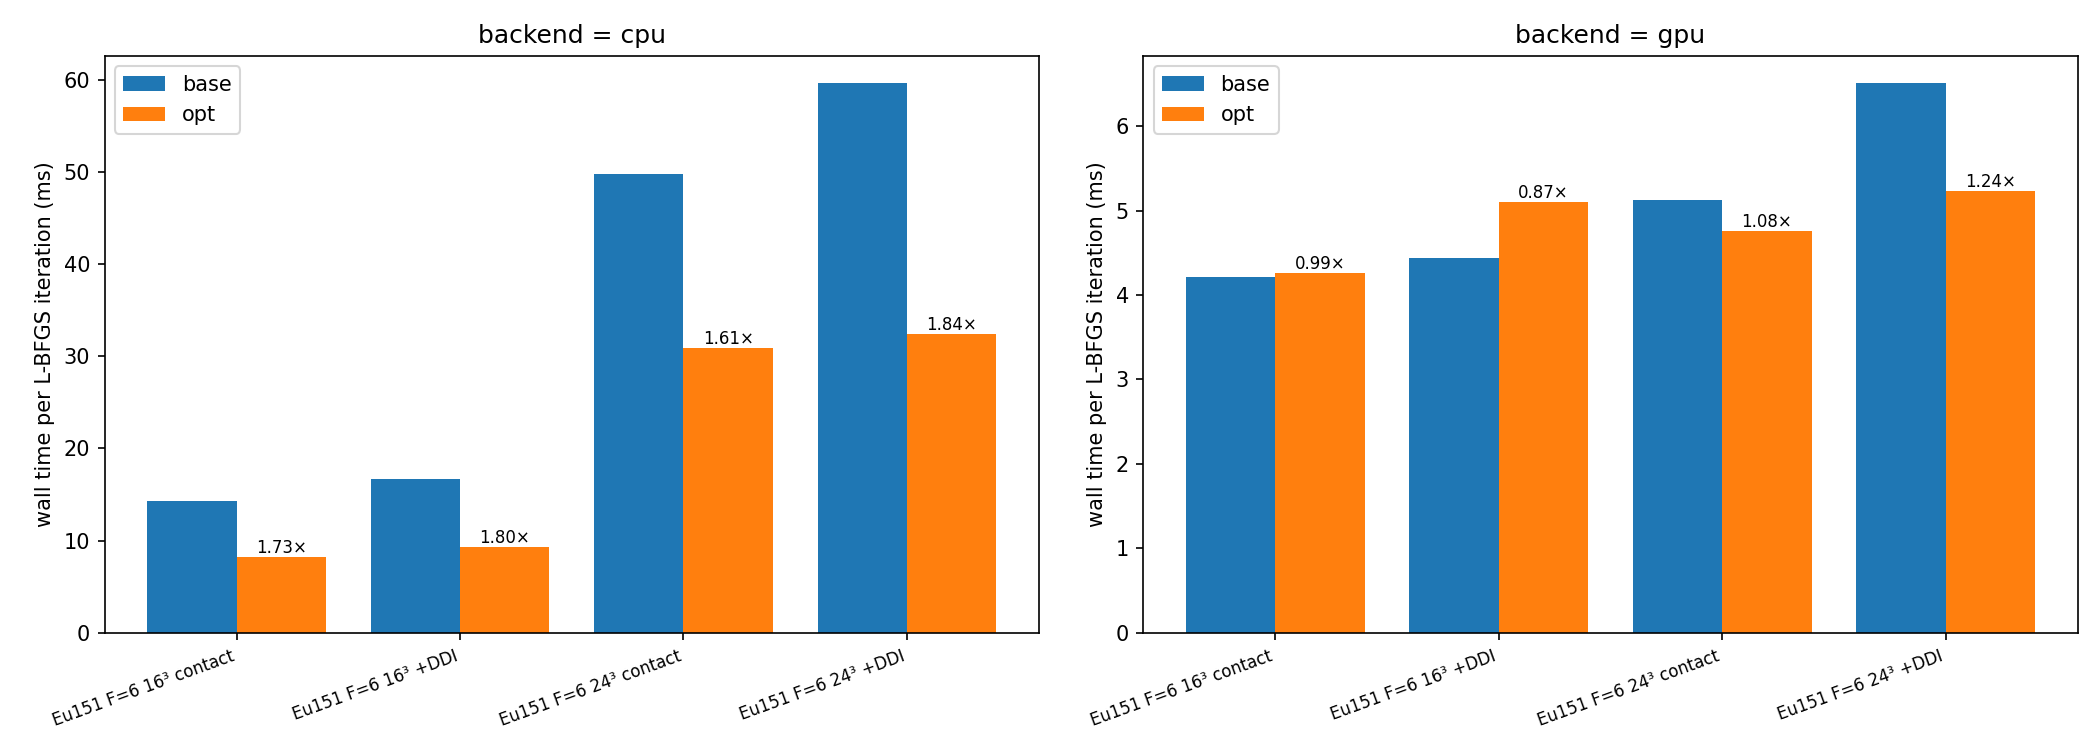
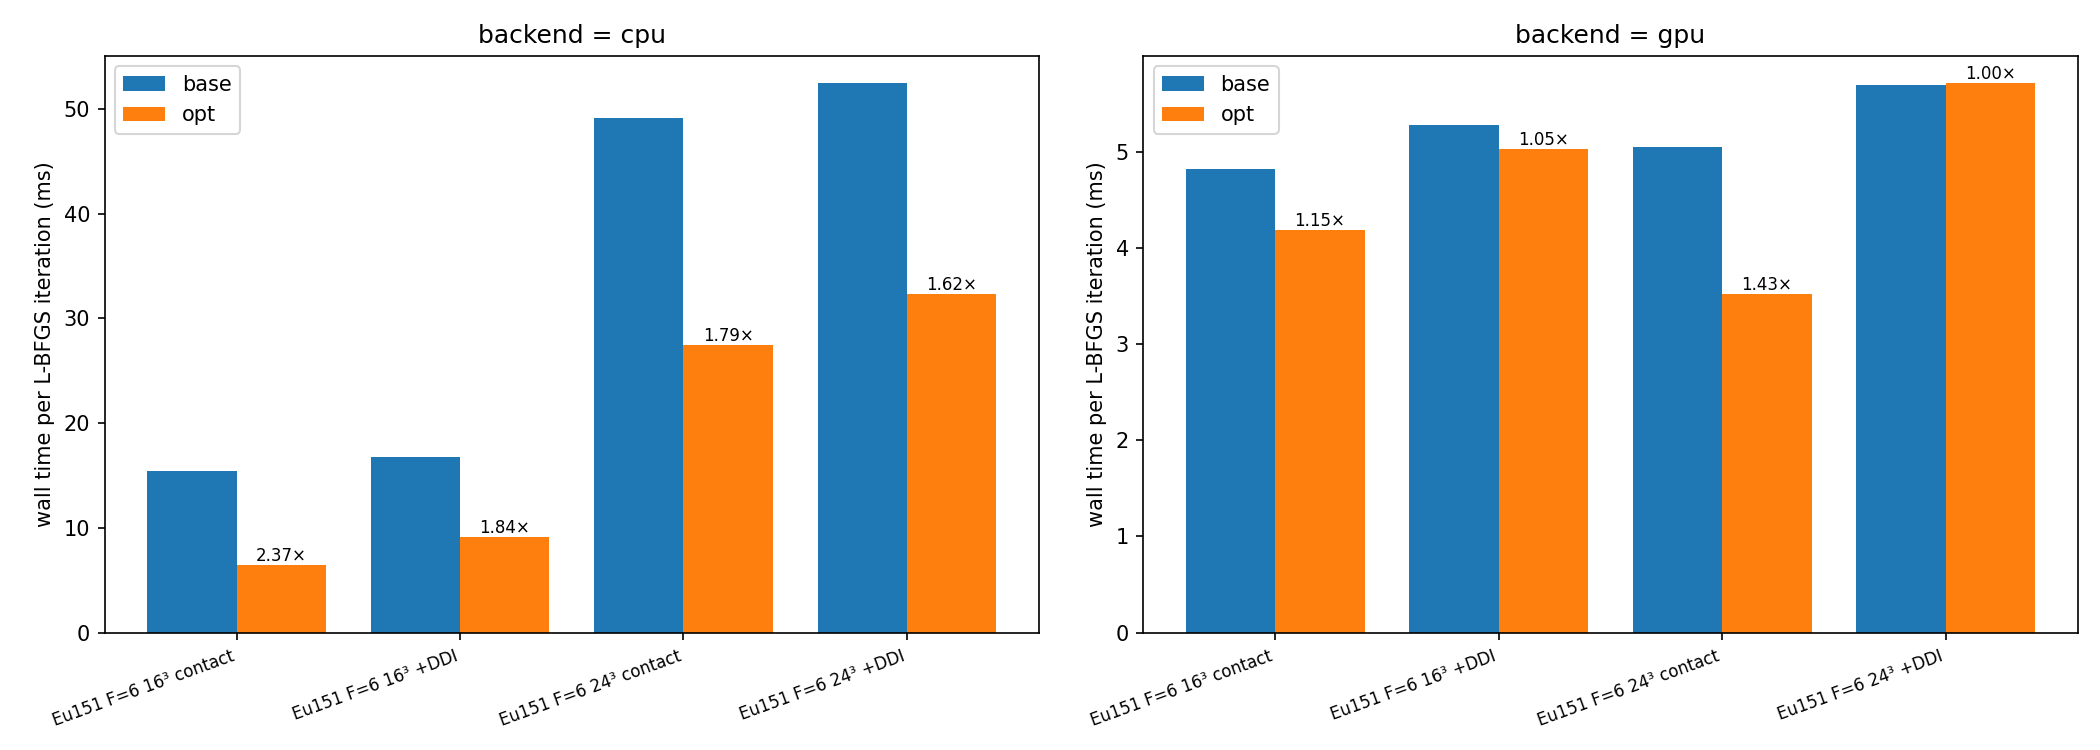
docs(lbfgs): final A/B, and the dot-product attempt that did not pay
CPU 1.62-2.37x per iteration. The GPU column is explicitly NOT a result:
four jobs put the baseline cells 10-19% apart, comparable to the
differences, and the sign of one cell is not stable across jobs.

Records the blocked-dot attempt that measured SLOWER than BLAS zdotc
(8.20 vs 7.72 ms with its blocks threaded) before @simd was allowed --
'blocked and threaded' sounds like it must be faster and was not.

Also notes the harness's own weakness: the slope differences two run
minima, and the baseline cells moved up to 20% between jobs, so the
two-loop claims rest on the component microbenchmark instead.

Assisted-by: Claude Code (model: claude-opus-5[1m])

diff --git a/docs/design/lbfgs_iteration_cost.md b/docs/design/lbfgs_iteration_cost.md
@@ -8,27 +8,36 @@ profile.
 ## Measured
 
 TSUBAME, one UGE job on one node (`gpu_h`, `JULIA_NUM_THREADS=8`), both
-revisions back to back — `550fe24e` (= `main`) against `915869c2`. Wall time
-per L-BFGS iteration, as the slope of wall against `n_steps`; Eu-151 F=6,
-D=13, box 12, `m_lbfgs=20`. Figure and full component breakdown:
+revisions back to back — `550fe24e` (= `main` at the time) against `4034662e`.
+Wall time per L-BFGS iteration, as the slope of wall against `n_steps`;
+Eu-151 F=6, D=13, box 12, `m_lbfgs=20`. Figure and full component breakdown:
 `docs/figs/lbfgs_iteration_cost_ab.{png,csv}`.
 
 | cell | CPU before | CPU after | | GPU before | GPU after |
 |---|---|---|---|---|---|
-| 16^3 contact | 14.27 ms | **8.26 ms** (1.73x) | | 4.22 ms | 4.26 ms |
-| 16^3 +DDI    | 16.71 ms | **9.29 ms** (1.80x) | | 4.44 ms | 5.10 ms |
-| 24^3 contact | 49.86 ms | **30.92 ms** (1.61x) | | 5.12 ms | **4.76 ms** (1.08x) |
-| 24^3 +DDI    | 59.65 ms | **32.45 ms** (1.84x) | | 6.51 ms | **5.23 ms** (1.24x) |
+| 16^3 contact | 15.40 ms | **6.50 ms** (2.37x) | | 4.82 ms | 4.19 ms |
+| 16^3 +DDI    | 16.74 ms | **9.09 ms** (1.84x) | | 5.28 ms | 5.03 ms |
+| 24^3 contact | 49.11 ms | **27.47 ms** (1.79x) | | 5.05 ms | 3.53 ms |
+| 24^3 +DDI    | 52.43 ms | **32.30 ms** (1.62x) | | 5.70 ms | 5.71 ms |
 
-The GPU 16^3 column is **inside run-to-run scatter** and no claim is made
-there: an earlier job measured the same baseline cells at 4.82 and 5.29 ms,
-a 14-19 % spread, which is larger than the difference. The 24^3 GPU cells
-moved the same way in both jobs. The CPU column is unambiguous in every cell.
+The **GPU column is not a result**. Four independent jobs measured the same
+baseline cells at 4.22-4.82, 4.44-5.29, 5.05-5.45 and 5.70-6.51 ms — a 10-19 %
+spread, comparable to the differences in the table, and the sign of the 24^3
++DDI difference is not stable across jobs. The CPU column is unambiguous: the
+baseline scatter there is 3-10 % against speedups of 1.6-2.4x.
 
-Component that moved most: the two-loop recursion, 10.1 -> 2.5 ms at 16^3 and
-32.7 -> 7.7 ms at 24^3 (~4x, from splitting its axpys across threads). The
-Sobolev preconditioner on the GPU went 0.46 -> 0.035 ms once it stopped
-copying slices.
+Component that moved most: the two-loop recursion, 9.90 -> 2.23 ms at 16^3 and
+31.49 -> 6.81 ms at 24^3 (~4.5x). The Sobolev preconditioner on the GPU went
+0.46 -> 0.035 ms once it stopped copying slices.
+
+The dot products inside that recursion took two attempts. Blocking them into 64
+fixed chunks with hand-unrolled scalar accumulators — chosen so the answer
+would be machine-independent — measured **8.20 ms against BLAS `zdotc`'s 7.72
+ms** at 24^3 with the blocks threaded: the scalar loads alone cancelled four
+cores. Letting each block vectorise (`@simd`) makes it memory-bound, which is
+the regime threading helps, and takes the recursion to 6.81 ms. The reported
+number is the second attempt; the first is recorded here because "blocked and
+threaded" sounds like it must be faster and was not.
 
 Reading the breakdown: it reconciles to -1.1 % on the baseline, so the
 baseline split is trustworthy. It does **not** reconcile on the optimised
@@ -37,6 +46,11 @@ revision (residuals of -10 to -48 %), because the bench measures
 component model no longer matches the code. Per `bench/reconcile.jl`, an
 unreconciled breakdown is not evidence; only the end-to-end slope is quoted
 above, and it is measured identically in both arms.
+
+One caveat on the harness itself: the slope is a difference of two run
+minima, which amplifies noise, and the baseline cells moved up to 20 % between
+jobs. Component microbenchmarks (`t_dir` above) are much steadier and are what
+the two-loop claims rest on.
 
 ## Gates
 
@@ -155,15 +169,21 @@ Each of these was work whose answer the iteration already had.
   is usually accepted, computing E and grad together there would make the
   iteration cost one fused pass instead of one energy pass plus one gradient
   pass. Worth it only if the acceptance rate is high; measure it first.
-- **Threading the two-loop *dot products*.** The axpys are already split
-  (`_axpy_threaded!`); the dots are not, because splitting a reduction changes
-  its summation order and this solver already sits close enough to the
-  `sqrt(eps)` floor for that to be visible. They are now the larger half of
-  what remains of the two-loop.
 - **The compact (Byrd-Nocedal-Schnabel) form** would read each of `s_i`, `y_i`
   once per direction instead of twice, halving the history traffic, and would
   put it through BLAS-2. It changes the summation order, so it needs its own
-  accuracy gate first.
+  accuracy gate — `_realdot_blocked`'s BigFloat comparison is the template.
+- **Fusing the line search's first trial with the gradient.** `alpha = 1` is
+  accepted on essentially every iteration (the measured line-search evaluation
+  count is ~1), so computing E and grad together there would replace one energy
+  pass plus one gradient pass with a single fused pass. On the CPU that is
+  worth roughly a whole energy evaluation per iteration — the largest single
+  item left. It needs a CPU fused energy+gradient, which does not exist: the
+  GPU has `_gpu_energy_and_optional_grad`, the CPU runs the registry twice.
+  Doing it without changing any energy value means fusing per term (share the
+  forward FFT between `_kinetic_energy` and `_grad_kinetic!`, share the DDI
+  potential between `_ddi_energy` and `_grad_ddi!`), not switching the energy
+  faces to `factor * Re<psi, H psi>`.
 - **FFTW threads.** `FFTW.set_num_threads` has zero call sites in the project,
   so every CPU transform is single-threaded. The blast radius is the whole
   codebase (plans capture the thread count at planning time, and plan choice
